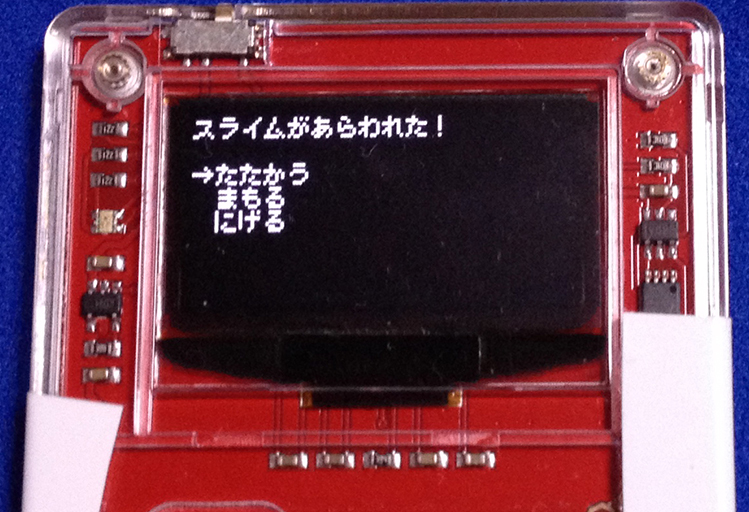
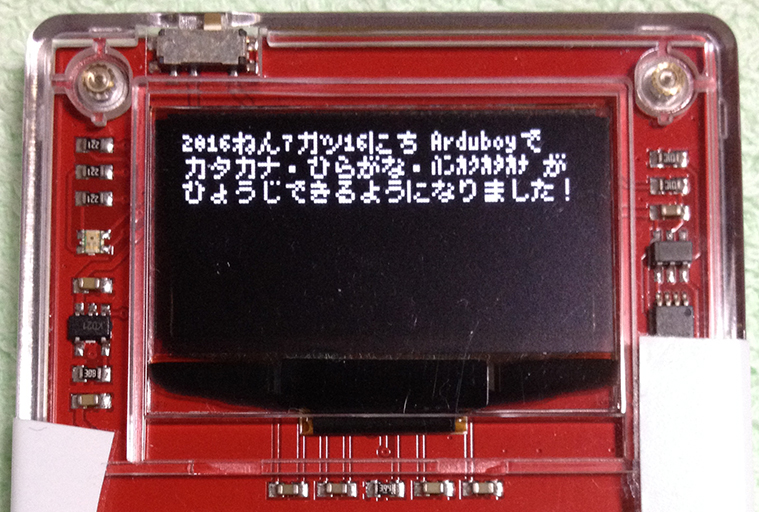
Add 4x8 dot Alphabet, Katakana and Symbol

diff --git a/convert_text_to_hex/js/main.js b/convert_text_to_hex/js/main.js
@@ -6,7 +6,9 @@ Copyright (c) 2016 emutyworks
 Released under the MIT license
 https://github.com/emutyworks/8x8DotJPFont/blob/master/LICENSE.txt
 */
-var char_list = "　、。，．・：；？！［］「」『』【】＋－±×÷＝≠＜＞℃￥＄￠￡％＃＆＊＠§☆★○●◎◇◆□■△▲▽▼※〒→←↑↓０１２３４５６７８９ぁあぃいぅうぇえぉおかがきぎくぐけげこごさざしじすずせぜそぞただちぢっつづてでとどなにぬねのはばぱひびぴふぶぷへべぺほぼぽまみむめもゃやゅゆょよらりるれろゎわゐゑをんァアィイゥウェエォオカガキギクグケゲコゴサザシジスズセゼソゾタダチヂッツヅテデトドナニヌネノハバパヒビピフブプヘベペホボポマミムメモャヤュユョヨラリルレロヮワヰヱヲンヴヵヶ〜…♂♀";
+var char_list = new Array();
+char_list[0] = "　、。，．・：；？！［］「」『』【】＋－±×÷＝≠＜＞℃￥＄￠￡％＃＆＊＠§☆★○●◎◇◆□■△▲▽▼※〒→←↑↓０１２３４５６７８９ぁあぃいぅうぇえぉおかがきぎくぐけげこごさざしじすずせぜそぞただちぢっつづてでとどなにぬねのはばぱひびぴふぶぷへべぺほぼぽまみむめもゃやゅゆょよらりるれろゎわゐゑをんァアィイゥウェエォオカガキギクグケゲコゴサザシジスズセゼソゾタダチヂッツヅテデトドナニヌネノハバパヒビピフブプヘベペホボポマミムメモャヤュユョヨラリルレロヮワヰヱヲンヴヵヶ〜…♂♀";
+char_list[1] = " !\"#$%&'()*+,-./0123456789:;<=>?@ABCDEFGHIJKLMNOPQRSTUVWXYZ[\\]^_`abcdefghijklmnopqrstuvwxyz{|}~｡｢｣､･ｦｧｨｩｪｫｬｭｮｯｰｱｲｳｴｵｶｷｸｹｺｻｼｽｾｿﾀﾁﾂﾃﾄﾅﾆﾇﾈﾉﾊﾋﾌﾍﾎﾏﾐﾑﾒﾓﾔﾕﾖﾗﾘﾙﾚﾛﾜﾝﾞﾟ";
 
 var char_exception = {
   '～': 0xec,
@@ -32,6 +34,8 @@ function convert_text_to_hex(){
   var list = '';
   var str = '';
   var hex = '';
+  var mode = '';
+  var flag = true;
 
   text += '\n'; 
 
@@ -40,18 +44,57 @@ function convert_text_to_hex(){
 
     if(row != '\n'){
       str += row;
-	    var h = char_list.indexOf(row).toString(16);
+	    var h0 = char_list[0].indexOf(row).toString(16);
+      var h1 = char_list[1].indexOf(row).toString(16);
 
-      if(h == -1){ 
-        var ex = char_exception[row];
-        if(!ex){
-          h = '00';
+      if(flag){
+        flag = false;
+
+        if(h1 != -1){
+          mode = '0xf1';
+          hex += mode + ', ' + '0x' + ('00' + h1).slice(-2) + ',';
         }else{
-          h = ex.toString(16);
+          mode = '0xf0';
+          if(h0 == -1){ 
+            var ex = char_exception[row];
+            if(!ex){
+              h0 = '00';
+            }else{
+              h0 = ex.toString(16);
+            }
+          }
+          hex += mode + ', ' + '0x' + ('00' + h0).slice(-2) + ',';
+        }
+      }else{
+        if(h1 != -1){
+          if(mode == '0xf1'){
+            hex += '0x' + ('00' + h1).slice(-2) + ',';
+          }else{
+            mode = '0xf1';
+            hex += ' ' + mode + ', ' + '0x' + ('00' + h1).slice(-2) + ',';
+          }
+        }else{
+          if(h0 == -1){ 
+            var ex = char_exception[row];
+            if(!ex){
+              h0 = '00';
+            }else{
+              h0 = ex.toString(16);
+            }
+          }
+
+          if(mode == '0xf0'){
+            hex += '0x' + ('00' + h0).slice(-2) + ',';
+          }else{
+            mode = '0xf0';
+            hex += ' ' + mode + ', ' + '0x' + ('00' + h0).slice(-2) + ',';
+          }
         }
       }
-	    hex += '0x' + ('00' + h).slice(-2) + ',';
+
     }else{
+      flag = true;
+
       if(add_comment){
         list += '//' + str + '\n{ ' + hex + ' };\n';
       }else{

diff --git a/convert_text_to_hex/index.html b/convert_text_to_hex/index.html
@@ -29,7 +29,7 @@ https://github.com/emutyworks/8x8DotJPFont/blob/master/LICENSE.txt
 
 <br>
 
-<b>Table to convert Text into Hex</b>
+<b>8x8 dot Hiragana, Katakana and Symbol (0xf0)</b>
 <table border='1'>
 <tr>
 <tr><td>&nbsp;</td><td>00</td><td>01</td><td>02</td><td>03</td><td>04</td><td>05</td><td>06</td><td>07</td><td>08</td><td>09</td><td>0a</td><td>0b</td><td>0c</td><td>0d</td><td>0e</td><td>0f</td></tr>
@@ -48,6 +48,23 @@ https://github.com/emutyworks/8x8DotJPFont/blob/master/LICENSE.txt
 <tr><td>c0</td><td>ニ</td><td>ヌ</td><td>ネ</td><td>ノ</td><td>ハ</td><td>バ</td><td>パ</td><td>ヒ</td><td>ビ</td><td>ピ</td><td>フ</td><td>ブ</td><td>プ</td><td>ヘ</td><td>ベ</td><td>ペ</td></tr>
 <tr><td>d0</td><td>ホ</td><td>ボ</td><td>ポ</td><td>マ</td><td>ミ</td><td>ム</td><td>メ</td><td>モ</td><td>ャ</td><td>ヤ</td><td>ュ</td><td>ユ</td><td>ョ</td><td>ヨ</td><td>ラ</td><td>リ</td></tr>
 <tr><td>e0</td><td>ル</td><td>レ</td><td>ロ</td><td>ヮ</td><td>ワ</td><td>ヰ</td><td>ヱ</td><td>ヲ</td><td>ン</td><td>ヴ</td><td>ヵ</td><td>ヶ</td><td>〜</td><td>…</td><td>♂</td><td>♀</td></tr>
+</table>
+
+<br>
+<b>4x8 dot Alphabet, Katakana and Symbol (0xf1)</b>
+<table border='1'>
+<tr>
+<tr><td>&nbsp;</td><td>00</td><td>01</td><td>02</td><td>03</td><td>04</td><td>05</td><td>06</td><td>07</td><td>08</td><td>09</td><td>0a</td><td>0b</td><td>0c</td><td>0d</td><td>0e</td><td>0f</td></tr>
+<tr><td>00</td><td> </td><td>!</td><td>"</td><td>#</td><td>$</td><td>%</td><td>&</td><td>'</td><td>(</td><td>)</td><td>*</td><td>+</td><td>,</td><td>-</td><td>.</td><td>/</td></tr>
+<tr><td>10</td><td>0</td><td>1</td><td>2</td><td>3</td><td>4</td><td>5</td><td>6</td><td>7</td><td>8</td><td>9</td><td>:</td><td>;</td><td><</td><td>=</td><td>></td><td>?</td></tr>
+<tr><td>20</td><td>@</td><td>A</td><td>B</td><td>C</td><td>D</td><td>E</td><td>F</td><td>G</td><td>H</td><td>I</td><td>J</td><td>K</td><td>L</td><td>M</td><td>N</td><td>O</td></tr>
+<tr><td>30</td><td>P</td><td>Q</td><td>R</td><td>S</td><td>T</td><td>U</td><td>V</td><td>W</td><td>X</td><td>Y</td><td>Z</td><td>[</td><td>\</td><td>]</td><td>^</td><td>_</td></tr>
+<tr><td>40</td><td>`</td><td>a</td><td>b</td><td>c</td><td>d</td><td>e</td><td>f</td><td>g</td><td>h</td><td>i</td><td>j</td><td>k</td><td>l</td><td>m</td><td>n</td><td>o</td></tr>
+<tr><td>50</td><td>p</td><td>q</td><td>r</td><td>s</td><td>t</td><td>u</td><td>v</td><td>w</td><td>x</td><td>y</td><td>z</td><td>{</td><td>|</td><td>}</td><td>~</td><td>｡</td></tr>
+<tr><td>60</td><td>｢</td><td>｣</td><td>､</td><td>･</td><td>ｦ</td><td>ｧ</td><td>ｨ</td><td>ｩ</td><td>ｪ</td><td>ｫ</td><td>ｬ</td><td>ｭ</td><td>ｮ</td><td>ｯ</td><td>ｰ</td><td>ｱ</td></tr>
+<tr><td>70</td><td>ｲ</td><td>ｳ</td><td>ｴ</td><td>ｵ</td><td>ｶ</td><td>ｷ</td><td>ｸ</td><td>ｹ</td><td>ｺ</td><td>ｻ</td><td>ｼ</td><td>ｽ</td><td>ｾ</td><td>ｿ</td><td>ﾀ</td><td>ﾁ</td></tr>
+<tr><td>80</td><td>ﾂ</td><td>ﾃ</td><td>ﾄ</td><td>ﾅ</td><td>ﾆ</td><td>ﾇ</td><td>ﾈ</td><td>ﾉ</td><td>ﾊ</td><td>ﾋ</td><td>ﾌ</td><td>ﾍ</td><td>ﾎ</td><td>ﾏ</td><td>ﾐ</td><td>ﾑ</td></tr>
+<tr><td>90</td><td>ﾒ</td><td>ﾓ</td><td>ﾔ</td><td>ﾕ</td><td>ﾖ</td><td>ﾗ</td><td>ﾘ</td><td>ﾙ</td><td>ﾚ</td><td>ﾛ</td><td>ﾜ</td><td>ﾝ</td><td>ﾞ</td><td>ﾟ</td><td></td><td></td></tr>
 </table>
 
 <br>

diff --git a/convert_png_to_hex/misaki_4x8_jisx0201.php b/convert_png_to_hex/misaki_4x8_jisx0201.php
@@ -1,0 +1,121 @@
+<?php 
+/*
+8x8dot Japanese font for Arduboy
+
+Copyright (c) 2016 emutyworks
+
+Released under the MIT license
+https://github.com/emutyworks/8x8DotJPFont/blob/master/LICENSE.txt
+*/
+mb_language('Japanese');
+mb_internal_encoding('UTF-8');
+
+$img = imagecreatefrompng("../misaki_png_2015-04-10/misaki_4x8_jisx0201.png");
+
+$char_list = "
+                
+                
+ !\"#$%&'()*+,-./
+0123456789:;<=>?
+@ABCDEFGHIJKLMNO
+PQRSTUVWXYZ[\]^_
+`abcdefghijklmno
+pqrstuvwxyz{|}~ 
+                
+                
+ ｡｢｣､･ｦｧｨｩｪｫｬｭｮｯ
+ｰｱｲｳｴｵｶｷｸｹｺｻｼｽｾｿ
+ﾀﾁﾂﾃﾄﾅﾆﾇﾈﾉﾊﾋﾌﾍﾎﾏ
+ﾐﾑﾒﾓﾔﾕﾖﾗﾘﾙﾚﾛﾜﾝﾞﾟ";
+
+$char_list = str_replace(array("\r\n","\n","\r"), '', $char_list);
+
+echo $char_list."<br>";
+
+$list = array(); // 94x5
+$cnt = 0;
+for($yy = 0; $yy < 14; $yy++){
+  for($xx = 0; $xx < 16; $xx++){
+    $hex = array();
+    for($x = 0; $x < 4; $x++){
+      $bin = '';
+      for($y = 7; $y >= 0; $y--){
+        $rgb = imagecolorat($img, $x+($xx * 4), $y + ($yy * 8));
+        $colors = imagecolorsforindex($img, $rgb);
+        if($colors['red'] != '0'){
+          $bin.="0";
+        }else{
+          $bin.="1";
+        }
+      }
+      $hex[] = sprintf("0x%02s",dechex(bindec($bin)));
+    }
+    $list[$cnt]['hex'] = implode(",", $hex);
+    $list[$cnt]['char'] = mb_substr($char_list,$cnt,1);
+    $cnt++;
+  }
+}
+
+?>
+<!DOCTYPE html PUBLIC "-//W3C//DTD XHTML 1.0 Transitional//EN" "http://www.w3.org/TR/xhtml1/DTD/xhtml1-transitional.dtd">
+<html xmlns="http://www.w3.org/1999/xhtml" xml:lang="ja" lang="ja">
+<head>
+<title></title>
+<meta http-equiv="content-type" content="text/html; charset=utf-8" />
+</head>
+<body>
+<?php
+
+$code_table = '';
+
+$start = 32;
+$end = $start + 95;
+list($hex,$comment) = view_data($start,$end,$list);
+$code_table .= $comment;
+
+$start = 161;
+$end = $start + 63;
+list($hex,$comment) = view_data($start,$end,$list);
+$code_table .= $comment;
+
+echo "<br>".$code_table."<br><br>";
+
+echo "\n<table border='1'>\n<tr>\n";
+$cnt = 0;
+for($y = 0; $y < 17; $y++){
+  if($y == '0'){
+    echo "<tr><td>&nbsp;</td>";
+  }else{
+    printf("<tr><td>%02s</td>",dechex(($y - 1) * 0x10));
+  }
+  for($x = 0; $x < 16; $x++){
+    if($y == '0'){
+      printf("<td>%02s</td>",dechex($x));
+    }else{
+      printf("<td>%s</td>",mb_substr($code_table,$cnt,1));
+      $cnt++;
+    }
+  }
+  echo "</tr>\n";
+}
+echo "</table>\n";
+
+function view_data($start,$end,$list){
+  static $cnt = 0;
+  $comment = '';
+  $hex = '';
+  for($i = $start; $i < $end; $i++){
+    $comment .= $list[$i]['char'];
+    $hex .= sprintf("{ %s },/* 0x%02s %s */<br>", $list[$i]['hex'], strtoupper(dechex($cnt)), $list[$i]['char']);
+    $cnt++;
+  }
+  //echo "#".$comment."<br>";
+  echo $hex;
+  
+  return array($hex,$comment);
+}
+
+
+?>
+</body>
+</html>

diff --git a/convert_png_to_hex/misaki_gothic.php b/convert_png_to_hex/misaki_gothic.php
@@ -152,7 +152,7 @@ function view_data($start,$end,$list){
   $hex = '';
   for($i = $start; $i < $end; $i++){
     $comment .= $list[$i]['char'];
-    $hex .= sprintf("{ %s },//0x%02s %s<br>", $list[$i]['hex'], strtoupper(dechex($cnt)), $list[$i]['char']);
+    $hex .= sprintf("{ %s },/* 0x%02s %s */<br>", $list[$i]['hex'], strtoupper(dechex($cnt)), $list[$i]['char']);
     $cnt++;
   }
   //echo "#".$comment."<br>";
